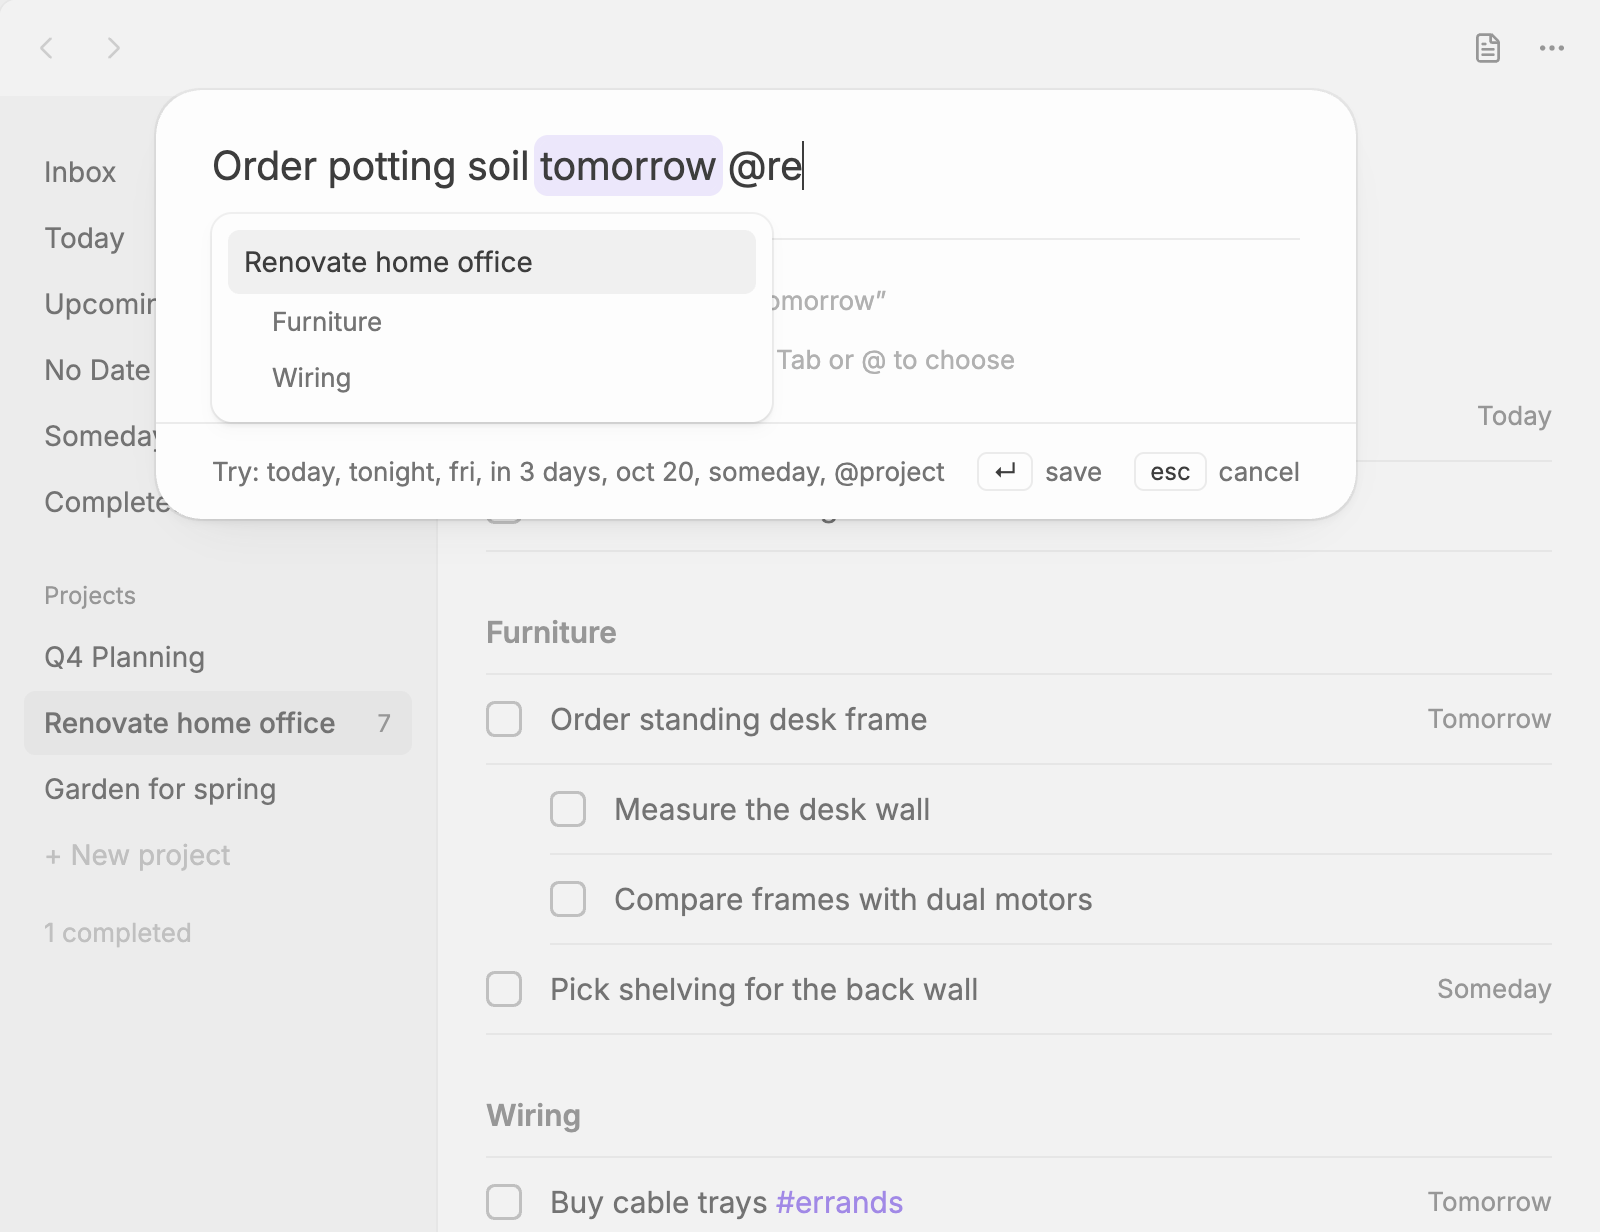
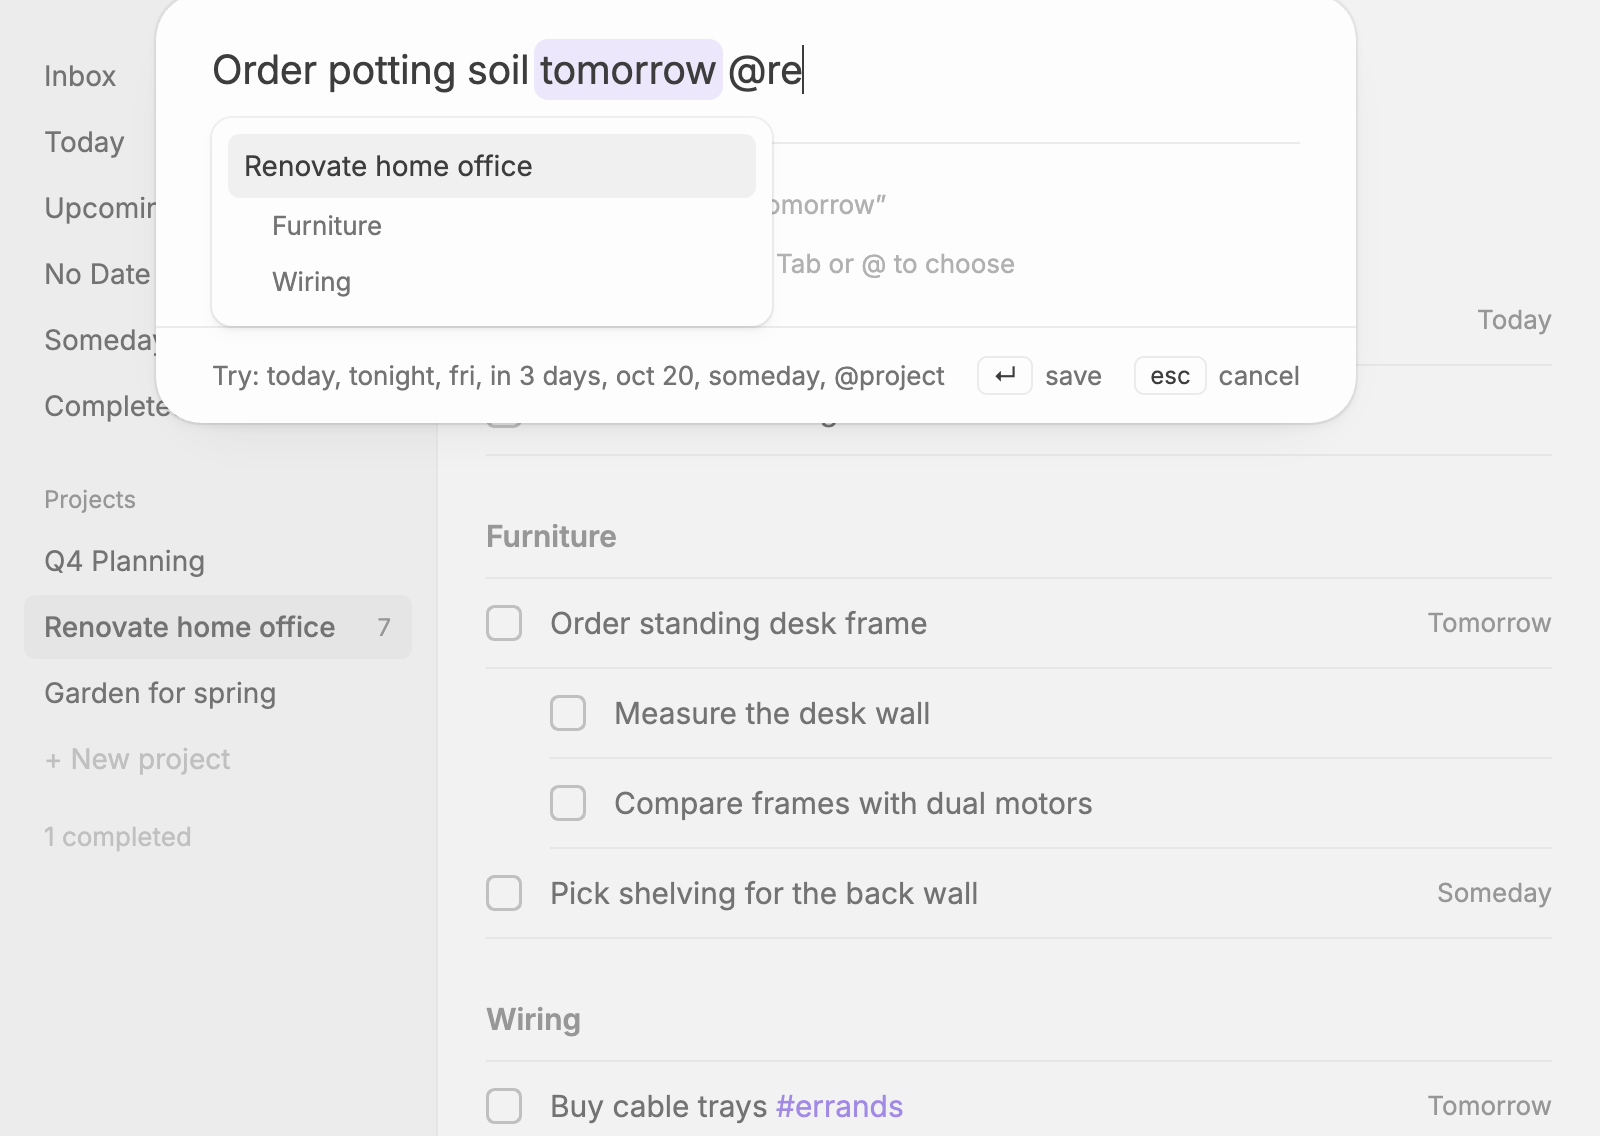
Release 1.0.28
On desktop, Plainlist tabs no longer show Obsidian's view header, so the
sidebar reaches the top of the tab instead of starting below a strip of
header buttons. Its options stay in the tab's right-click menu, and Open
as Markdown is also there and in the switch command. Mobile keeps the
header, since it is the navigation bar there. The getting-started page
and the screenshots are updated to match.

diff --git a/src/styles.css b/src/styles.css
@@ -5,6 +5,12 @@
 	overflow: hidden;
 }
 
+/* The view header sits above the sidebar and makes it look cut off. Desktop only: on
+   mobile the header is the navigation bar. Its actions stay in the tab's context menu. */
+body:not(.is-mobile) .workspace-leaf-content[data-type='plainlist'] > .view-header {
+	display: none;
+}
+
 .pl-host,
 .pl-root {
 	height: 100%;

diff --git a/docs/getting-started.md b/docs/getting-started.md
@@ -16,7 +16,7 @@ Run **Plainlist: Open** from the command palette (or click the ribbon icon). It 
 
 The sidebar on the left holds the [lists](lists.md) (Inbox, Today, Upcoming, No Date, Someday and Completed) and your [projects](projects.md). The main area shows the list you picked. On a phone, or in a narrow pane, the sidebar becomes a menu: tap the list's name at the top to switch lists, add a project or add an area.
 
-Any note with `plainlist: true` in its properties opens in the Plainlist view. To see the raw Markdown, click the page icon in the view's header or run **Plainlist: Switch between task list and Markdown**. Run it again to go back.
+Any note with `plainlist: true` in its properties opens in the Plainlist view. To see the raw Markdown, right-click the tab and choose **Open as Markdown**, or run **Plainlist: Switch between task list and Markdown**. Run the command again to go back. On desktop, Plainlist hides Obsidian's view header so the sidebar reaches the top of the tab; the tab's right-click menu still has the header's options.
 
 ## Adding your first to-do
 
